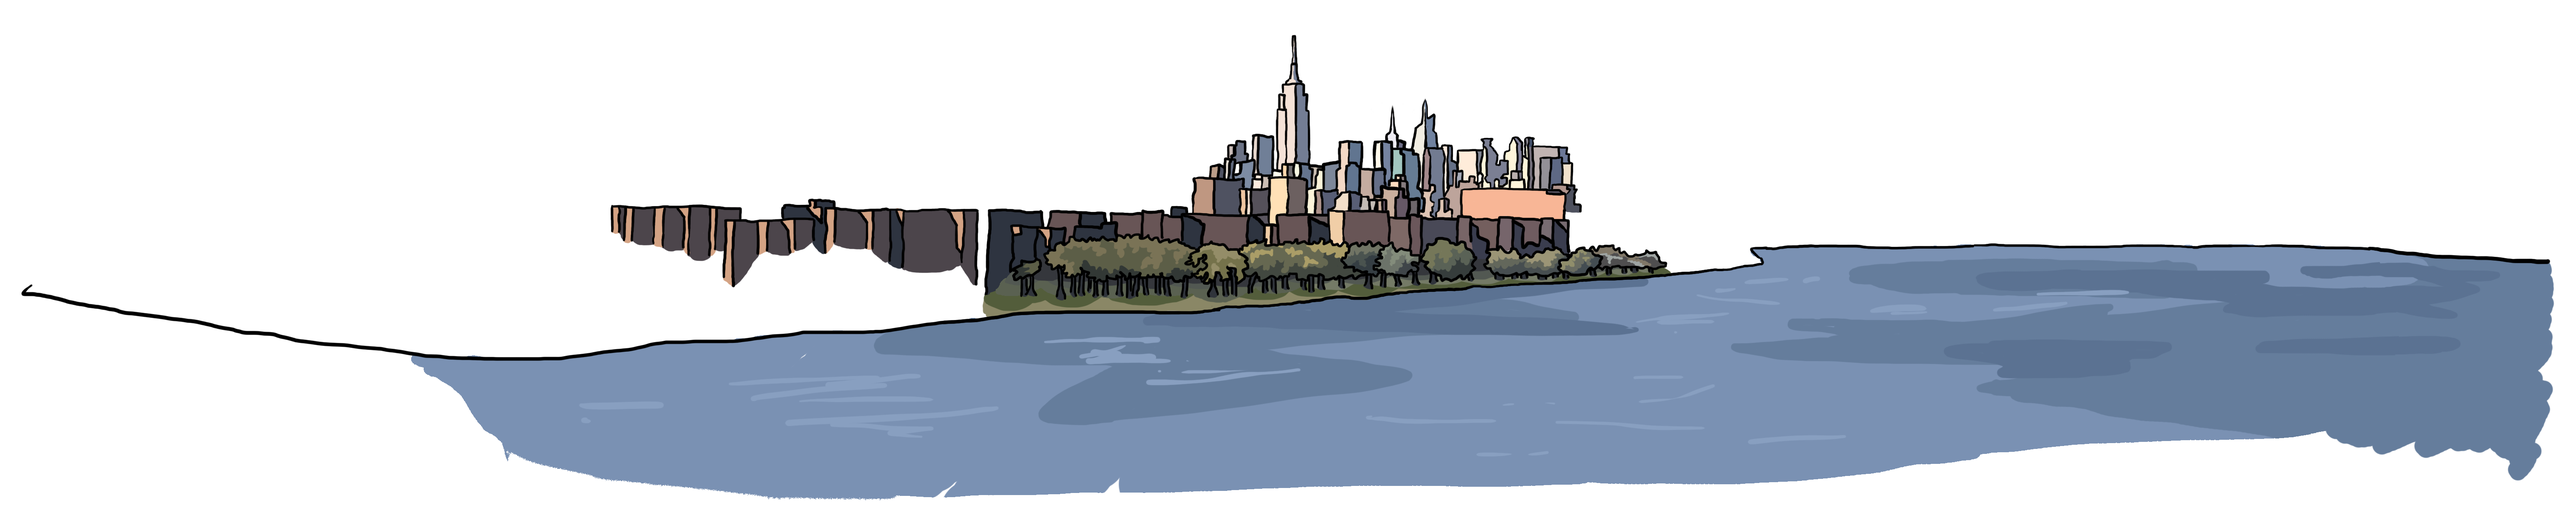
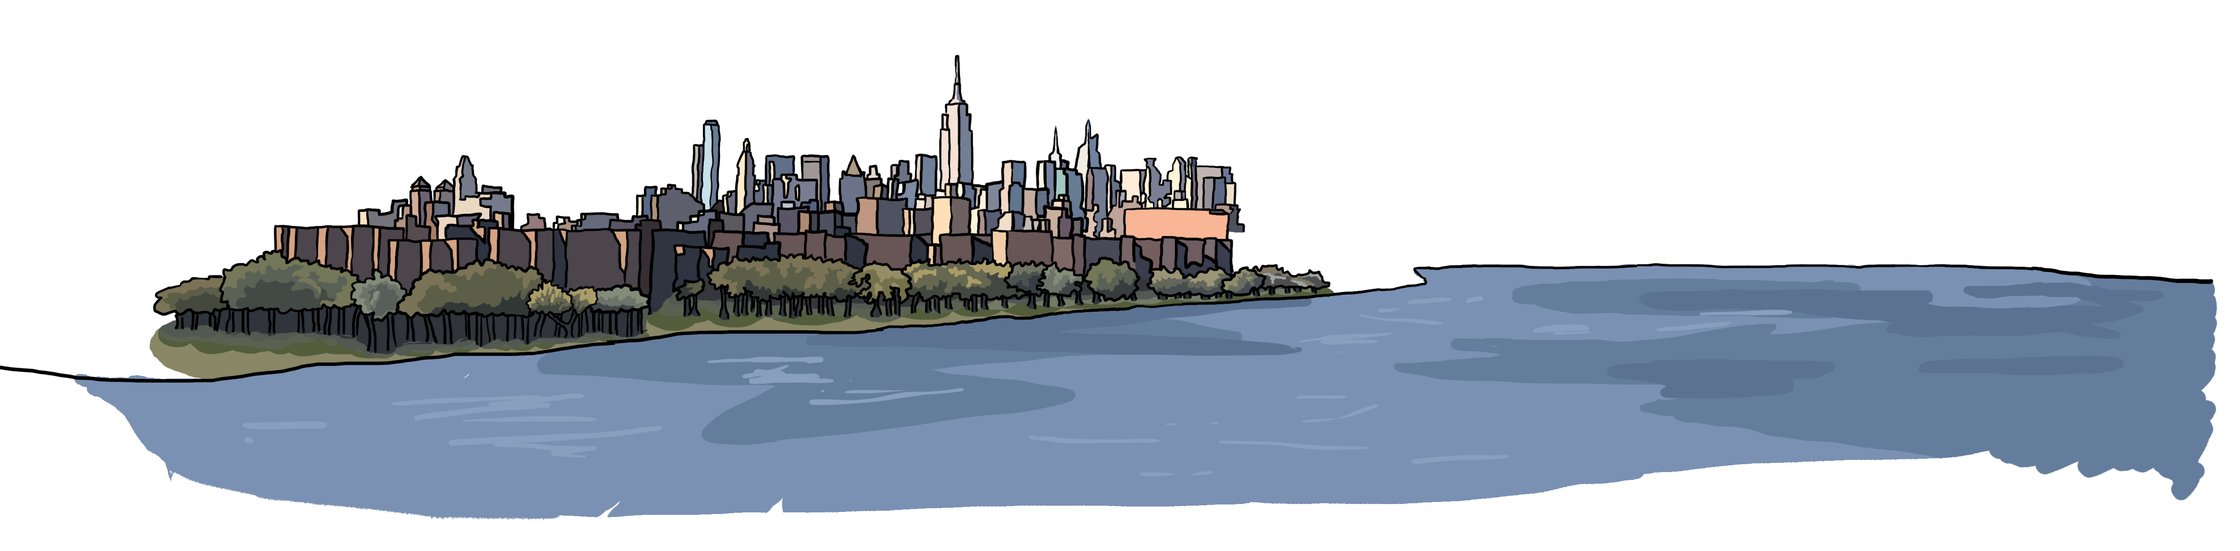
Edit images.

diff --git a/diorama.js b/diorama.js
@@ -33,8 +33,8 @@ function initialize () {
       new Cutout ({
         name: 'manhattan',
         anchor: {
-          x: -1200,
-          y: 786,
+          x: -700,
+          y: 620,
           z: 100,
         },
         imageSource: 'images/manhattan.png',
